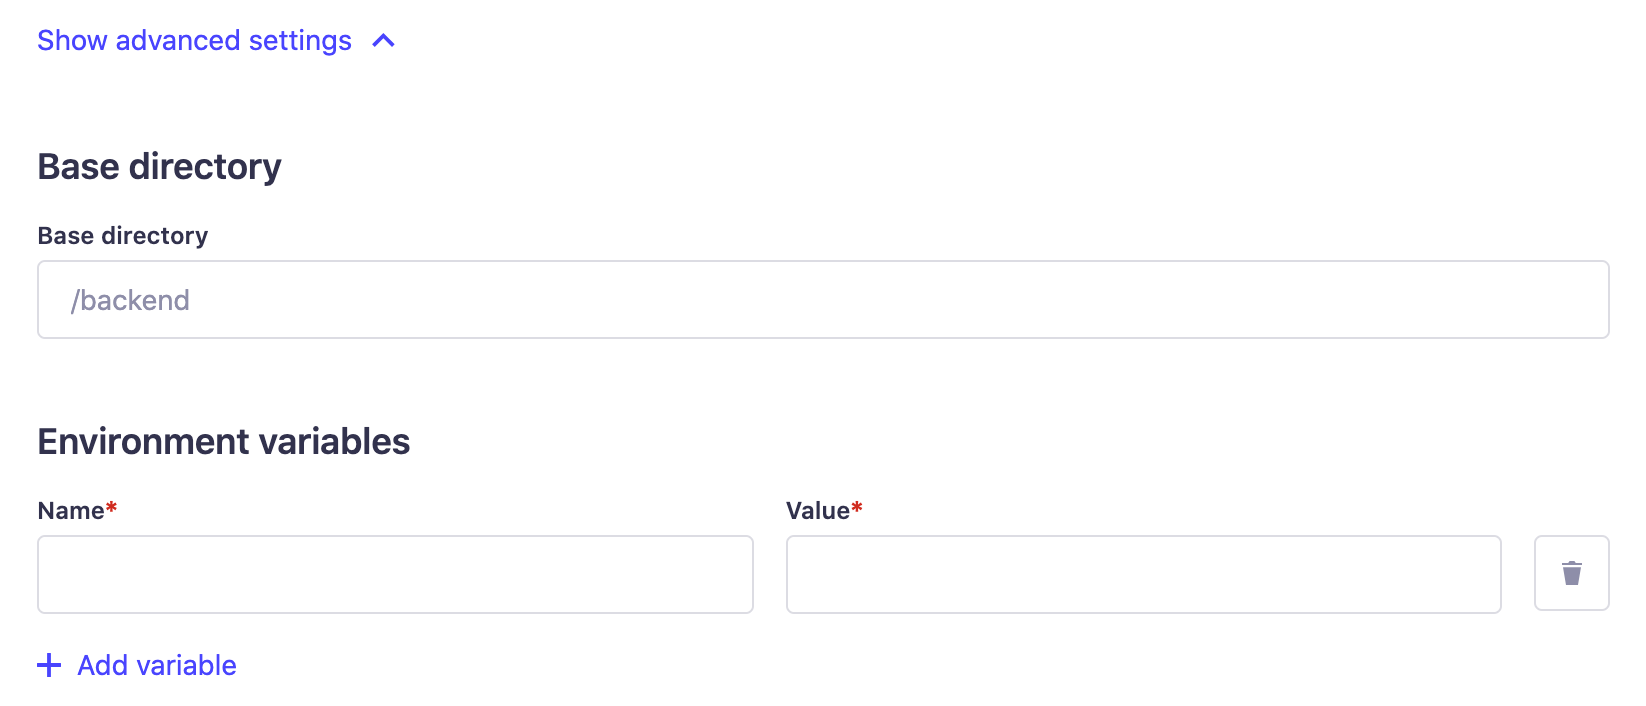
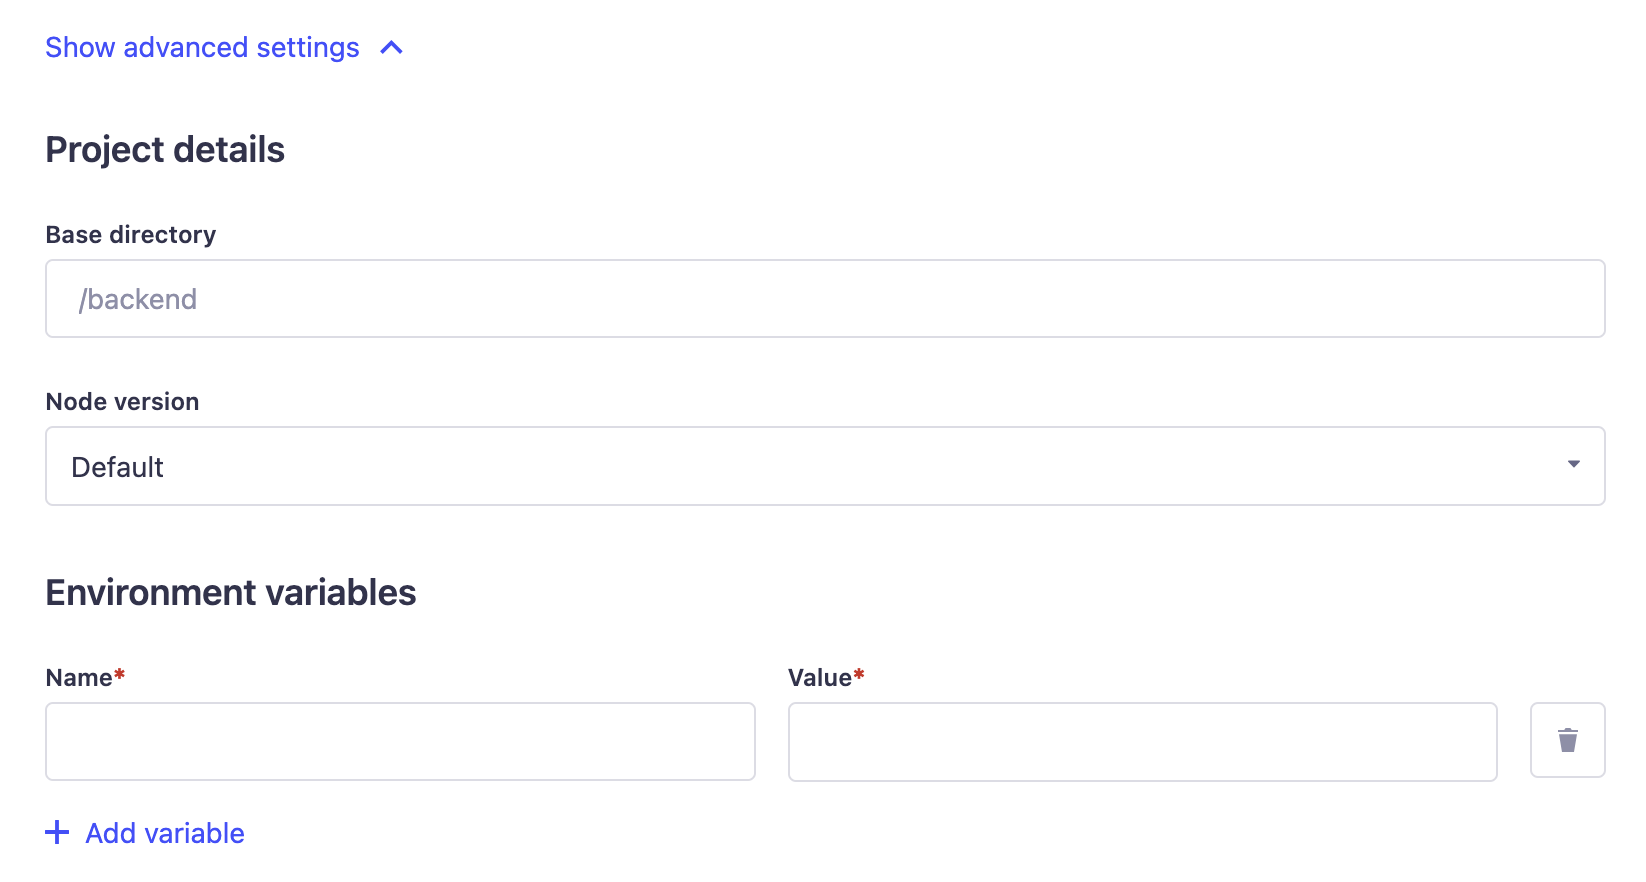
Strapi Cloud: Node version feature (#1978)
* Document Node version feature in deployment guide

* Update advanced settings screenshots

diff --git a/docusaurus/docs/cloud/getting-started/deployment.md b/docusaurus/docs/cloud/getting-started/deployment.md
@@ -157,7 +157,8 @@ Before you can deploy your Strapi application on Strapi Cloud, you need to have 
     | Setting name | Instructions                                                                                            |
     |--------------|---------------------------------------------------------------------------------------------------------|
     | Base directory | Write the name of the directory where your Strapi app is located in the repository. This is useful if you have multiple Strapi apps in the same repository or if you have a monorepo. |
-    | Variables    | Click on **Add variable** to add environment variables used to configure your Strapi app (see [Environment variables](/dev-docs/configurations/environment/) for more information). You can also add environment variables to your Strapi application by adding a `.env` file to the root of your Strapi app directory. The environment variables defined in the `.env` file will be used by Strapi Cloud. |
+    | Environment variables | Click on **Add variable** to add environment variables used to configure your Strapi app (see [Environment variables](/dev-docs/configurations/environment/) for more information). You can also add environment variables to your Strapi application by adding a `.env` file to the root of your Strapi app directory. The environment variables defined in the `.env` file will be used by Strapi Cloud. |
+    | Node version | Choose a Node version from the drop-down. Default Node version will automatically be chosen to best match the version of your Strapi project. If you manually choose a version that doesn't match with your Strapi project, the build will fail but the explanation will be displayed in the build logs. |
 
     :::strapi Using Environment Variables
     You can use environment variable to connect your project to an external database rather than the default one used by Strapi Cloud (see [database configuration](/dev-docs/configurations/database#environment-variables-in-database-configurations) for more details). If you would like to revert and use Strapi's default database again, you have to remove your `DATABASE_` environment variables (no automatic migration implied).
